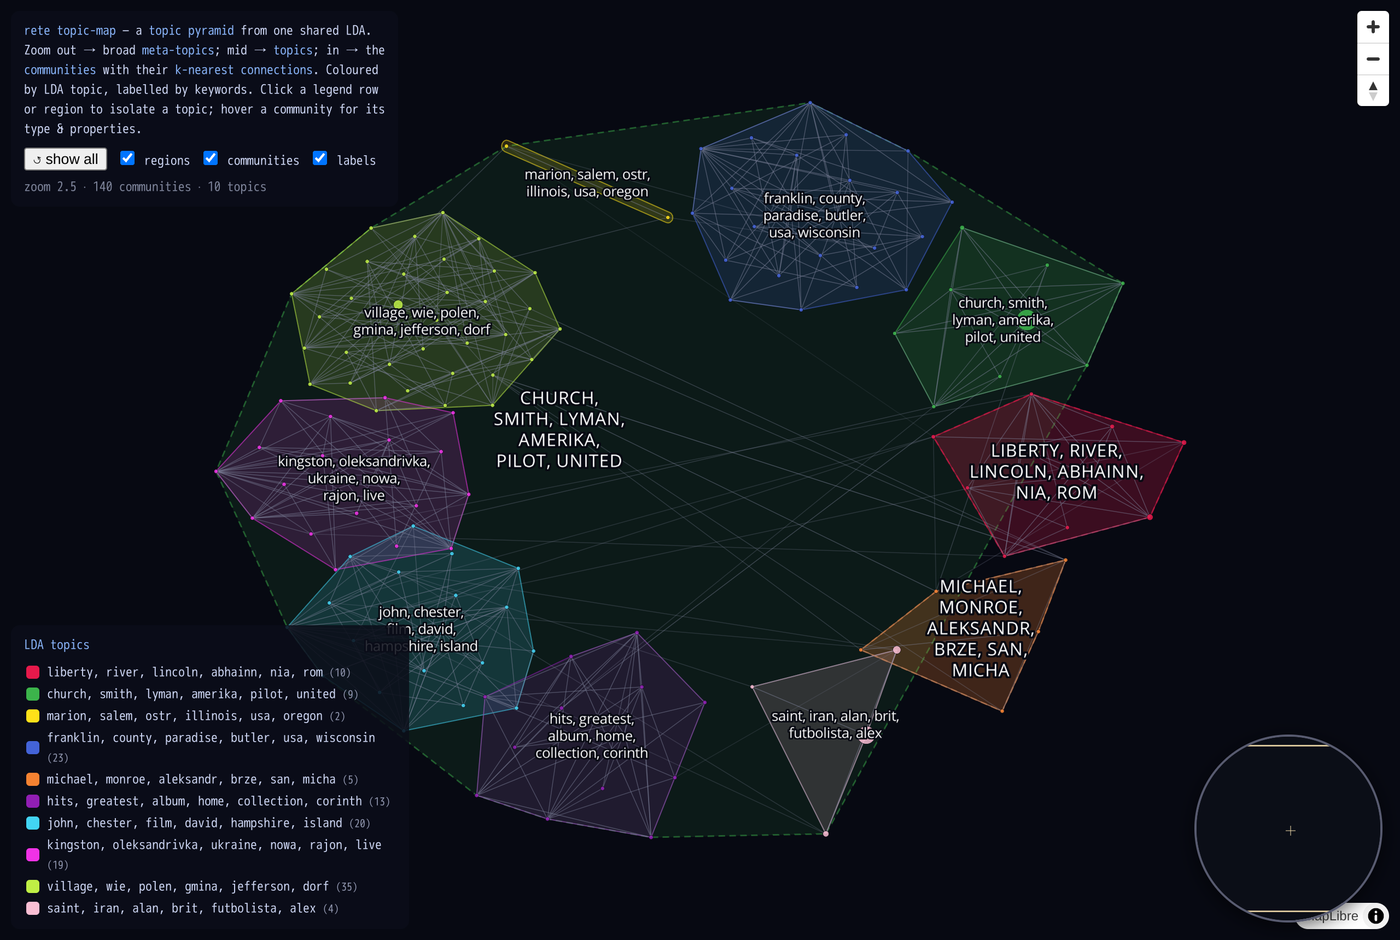
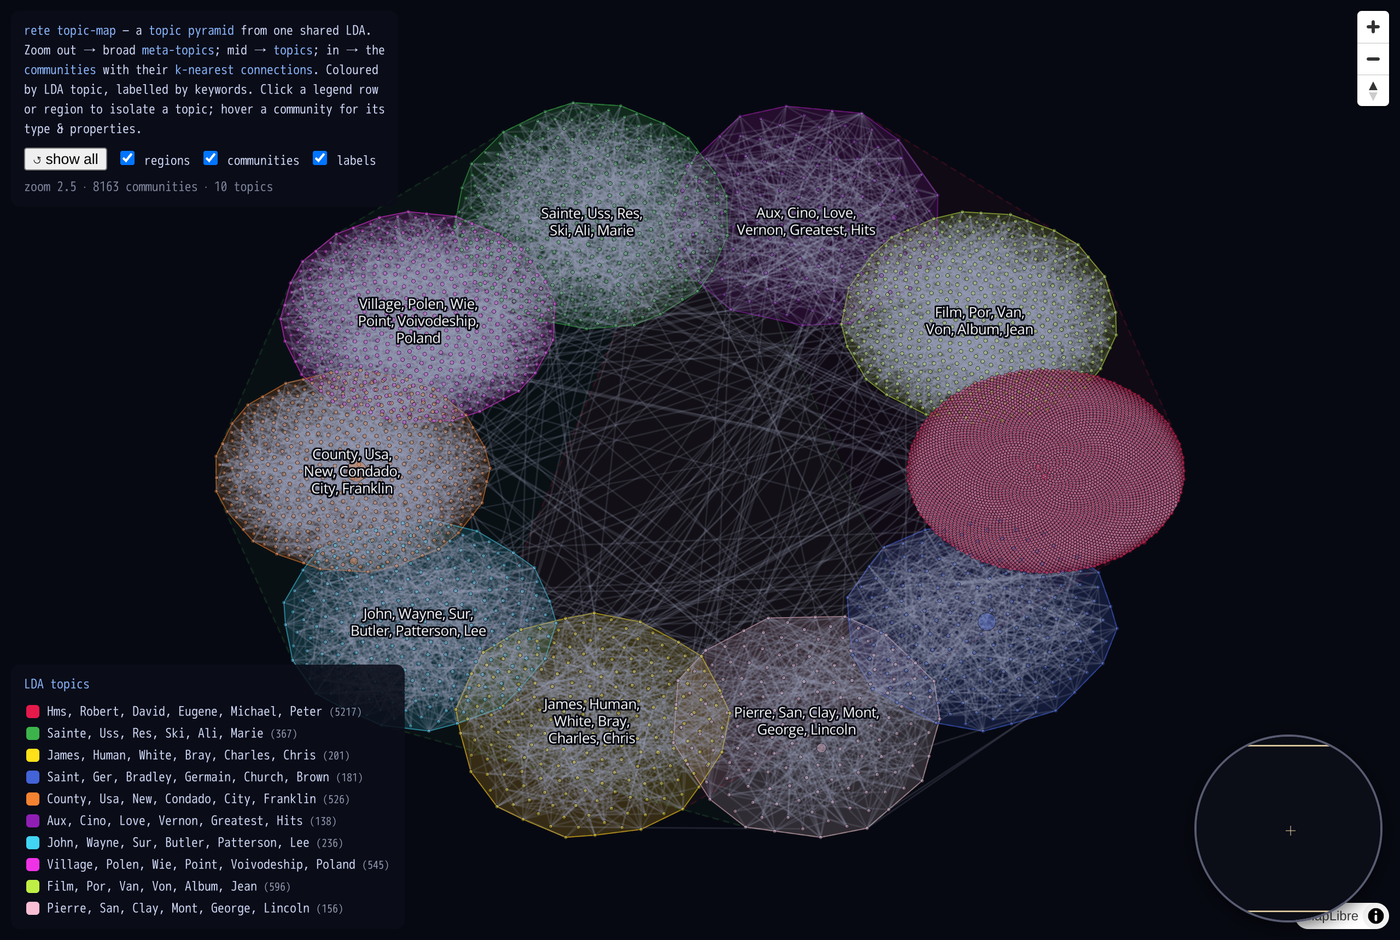
feat(topic-map): human Title-cased labels + category-forward popups; denser map (min-size 2 -> 8163 communities, 24k connections)

diff --git a/docs/graph-map/viewer-topics.html b/docs/graph-map/viewer-topics.html
@@ -191,11 +191,10 @@ maplibregl.addProtocol("pmtiles", protocol.tile);
     map.on("mousemove", "communities", (e) => {
       const p = e.features[0].properties; map.getCanvas().style.cursor = "pointer";
       popup.setLngLat(e.lngLat).setHTML(
-        `<b>community C${p.id}</b><br>` +
-        (p.etype ? `type: <b>${p.etype}</b><br>` : "") +
-        `size ${p.size}<br>` +
-        (p.props ? `properties: ${p.props}<br>` : "") +
-        `topic ${p.topic}: ${p.label}`).addTo(map);
+        `<b>${p.label || "community"}</b>` + (p.etype ? ` · <span style="color:#a6e3a1">${p.etype}</span>` : "") + `<br>` +
+        `${p.size} entities · topic ${p.topic}<br>` +
+        (p.props ? `<span style="opacity:.8">properties: ${p.props}</span><br>` : "") +
+        `<span style="opacity:.55">community C${p.id}</span>`).addTo(map);
     });
     map.on("mouseleave", "communities", () => { map.getCanvas().style.cursor = ""; popup.remove(); });
 

diff --git a/experiments/graph-map/viewer-topics.html b/experiments/graph-map/viewer-topics.html
@@ -191,11 +191,10 @@ maplibregl.addProtocol("pmtiles", protocol.tile);
     map.on("mousemove", "communities", (e) => {
       const p = e.features[0].properties; map.getCanvas().style.cursor = "pointer";
       popup.setLngLat(e.lngLat).setHTML(
-        `<b>community C${p.id}</b><br>` +
-        (p.etype ? `type: <b>${p.etype}</b><br>` : "") +
-        `size ${p.size}<br>` +
-        (p.props ? `properties: ${p.props}<br>` : "") +
-        `topic ${p.topic}: ${p.label}`).addTo(map);
+        `<b>${p.label || "community"}</b>` + (p.etype ? ` · <span style="color:#a6e3a1">${p.etype}</span>` : "") + `<br>` +
+        `${p.size} entities · topic ${p.topic}<br>` +
+        (p.props ? `<span style="opacity:.8">properties: ${p.props}</span><br>` : "") +
+        `<span style="opacity:.55">community C${p.id}</span>`).addTo(map);
     });
     map.on("mouseleave", "communities", () => { map.getCanvas().style.cursor = ""; popup.remove(); });
 

diff --git a/experiments/graph-map/build_topic_map.py b/experiments/graph-map/build_topic_map.py
@@ -46,11 +46,11 @@ def run_communities(rete_bin, rete_file, round_, min_size):
     return comms
 
 
-def top_terms(profile, k=2):
-    """Top-k literal words from a community's --profile (list of [word,count])."""
+def top_terms(profile, k=3):
+    """A short human label from a community's top literal words (Title-cased)."""
     terms = (profile or {}).get("terms") or []
     words = [t[0] if isinstance(t, list) else t for t in terms][:k]
-    return " ".join(words) if words else "?"
+    return " ".join(w.title() for w in words) if words else "?"
 
 
 def _localname(iri):
@@ -159,7 +159,7 @@ def main() -> None:
     topic_words = []
     for t in range(args.topics):
         top = lda.components_[t].argsort()[::-1][:6]
-        topic_words.append(", ".join(vocab[top]))
+        topic_words.append(", ".join(w.title() for w in vocab[top]))
 
     # Layout: each LDA topic gets an anchor on a ring; its communities scatter in
     # a disc around it (golden-angle fill, area ∝ topic size). Clean topic regions
